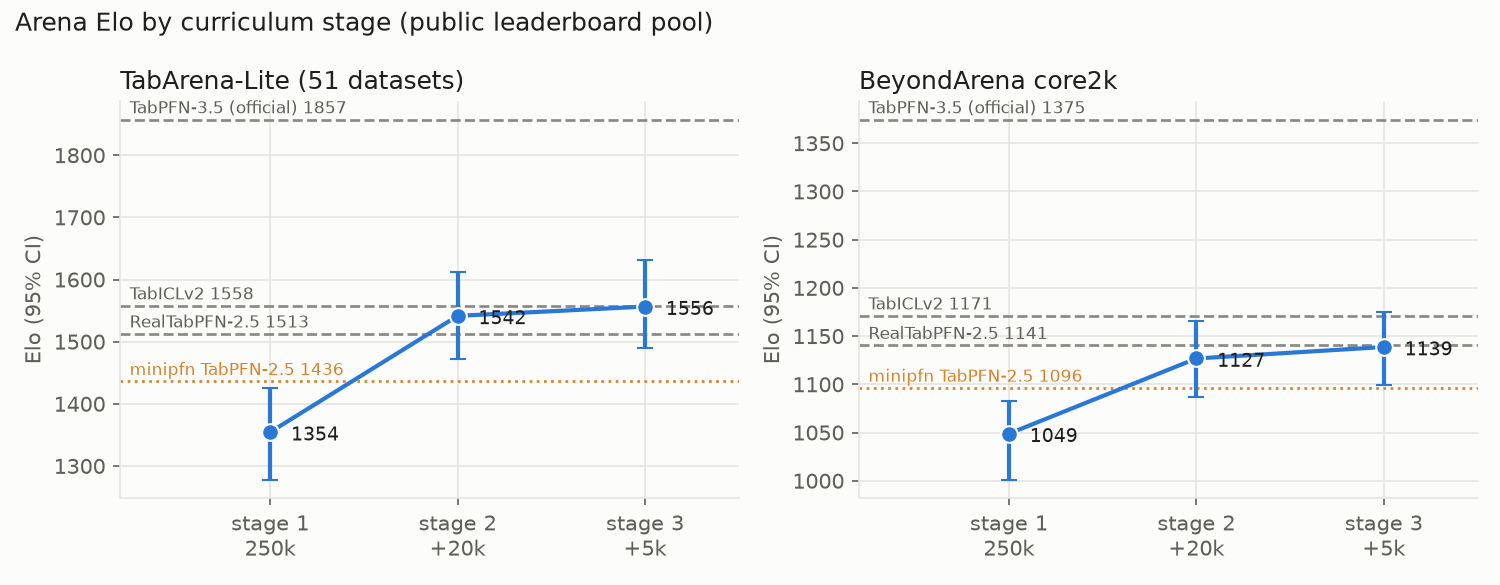
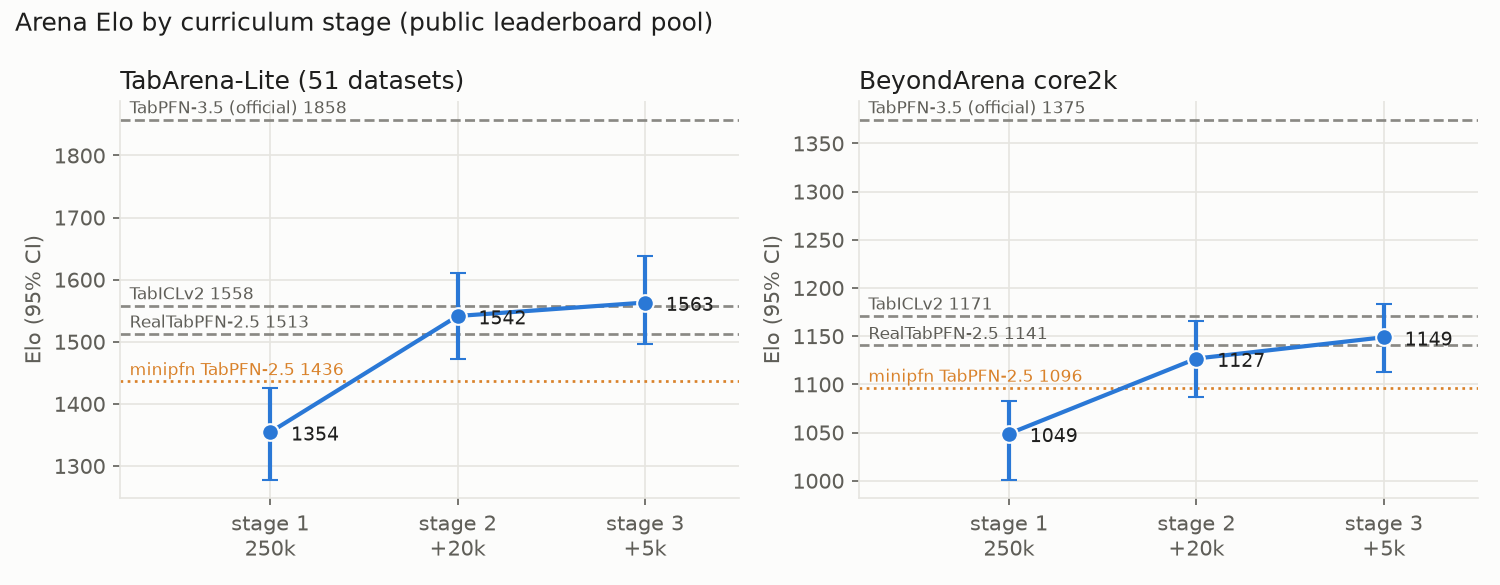
hub: TabPFN-3.5 card numbers under the 768-column default inference (#109) (#111)
- AMLB: re-run with Hub main weights and the current default (768 per
  member, balanced). No AMLB dataset has more than 376 columns, so the cap
  never applies; all 570 folds match the old result bit for bit. Numbers
  unchanged; the card now says so.
- TabArena-Lite 1556 -> 1563 (rank 16 -> 15 of 99), BeyondArena 1139 ->
  1149 (rank 20 -> 18 of 41), from the #99 runs. Stage 1-2 arena values
  are still the all-column ones; the card says they were not re-run.
- arena_elo.png redrawn with the stage-3 point at 768.
- plot_card.py: --tabarena-runs / --beyondarena-runs also take a
  leaderboard CSV path (for the recomputed BeyondArena leaderboard).

Closes #109

Changed region(s): [[0.7973, 0.5538, 0.9813, 0.6154], [0.3067, 0.4923, 0.4907, 0.5538]]

diff --git a/scripts/tabpfn_v3/plot_card.py b/scripts/tabpfn_v3/plot_card.py
@@ -80,8 +80,16 @@ def parse_args(argv: list[str] | None = None) -> argparse.Namespace:
         help="stage=학습 run_id, 쉼표로 구분 (단계 안에서는 순서대로)",
     )
     parser.add_argument("--benchmark-runs", required=True, help="stage=benchmark 평가 run_id")
-    parser.add_argument("--tabarena-runs", required=True, help="stage=TabArena-Lite 평가 run_id")
-    parser.add_argument("--beyondarena-runs", required=True, help="stage=BeyondArena 평가 run_id")
+    parser.add_argument(
+        "--tabarena-runs",
+        required=True,
+        help="stage=TabArena-Lite 평가 run_id (또는 leaderboard CSV 경로)",
+    )
+    parser.add_argument(
+        "--beyondarena-runs",
+        required=True,
+        help="stage=BeyondArena 평가 run_id (또는 leaderboard CSV 경로)",
+    )
     parser.add_argument(
         "--v2-5-benchmark-runs",
         required=True,
@@ -246,6 +254,10 @@ def plot_by_stage(bench: dict, v25: dict, path: Path) -> None:
 
 
 def load_leaderboard(run_id: str, suite: str, cache: Path) -> pd.DataFrame:
+    """평가 run의 `eval/<suite>/leaderboard.csv`. run_id 대신 leaderboard CSV 경로를 주면 그
+    파일을 읽는다(평가 run 없이 split 일부만 바꿔 다시 집계한 leaderboard, 예: issue #109)."""
+    if run_id.endswith(".csv"):
+        return pd.read_csv(run_id)
     csv = mlflow.artifacts.download_artifacts(
         run_id=run_id, artifact_path=f"eval/{suite}/leaderboard.csv", dst_path=str(cache / run_id)
     )

diff --git a/hub/minipfn-tabpfn-v3-5/README.md b/hub/minipfn-tabpfn-v3-5/README.md
@@ -77,42 +77,44 @@ Regression: the median RMSE ratio is 0.999, and 25 of 28 datasets are within 1.1
 
 Most of the regression gain came from stage 2, the first stage with long tables: the ratio fell from 1.075 to 1.005, and 20 of 28 datasets improved. Stage 3 changed little on this suite.
 
+The column cap of the default inference (768 per member) never applies on this suite: the widest dataset, Mercedes_Benz_Greener_Manufacturing, has 376 columns. Re-run with the current default inference, the stage-3 weights gave the same score on all 570 folds, so the numbers above hold for every stage.
+
 ![ROC AUC per dataset](images/benchmark_roc_auc.png)
 
 ![RMSE ratio per dataset](images/benchmark_rmse_ratio.png)
 
 ### TabArena-Lite
 
-[TabArena-Lite](https://huggingface.co/spaces/TabArena/leaderboard) (51 datasets, one split each), scored the way the public leaderboard is: Elo against the leaderboard's method pool, with RandomForest (default) at 1000. The same weights serve the classification and regression splits. No split exceeds the size limit (1,000,000 training rows, 6,000 features, 160 classes), so none is imputed. Every method on the public leaderboard is 8-fold bagged; this model is fit once per split.
+[TabArena-Lite](https://huggingface.co/spaces/TabArena/leaderboard) (51 datasets, one split each), scored the way the public leaderboard is: Elo against the leaderboard's method pool, with RandomForest (default) at 1000. The same weights serve the classification and regression splits, with the default inference (768 columns per member, balanced). No split exceeds the size limit (1,000,000 training rows, 160 classes; the column cap removes the column limit), so none is imputed. Every method on the public leaderboard is 8-fold bagged; this model is fit once per split.
 
 | Method | Elo | Imputed splits |
 | --- | --- | --- |
-| TabPFN-3.5 (default), public | 1857 | |
-| TabPFN-3 (default), public | 1620 | |
+| TabPFN-3.5 (default), public | 1858 | |
+| TabPFN-3 (default), public | 1621 | |
+| **minipfn TabPFN-3.5 (this model)** | **1563** (+75/−67) | 0.0% |
 | TabICLv2 (default), public | 1558 | |
-| **minipfn TabPFN-3.5 (this model)** | **1556** (+75/−67) | 0.0% |
 | RealTabPFN-2.5 (default), public | 1513 | |
 | minipfn TabPFN-2.5 | 1436 | 7.8% |
 
-By stage, the Elo was 1354 (+72/−77) after stage 1, 1542 (+70/−70) after stage 2 and 1556 after stage 3. This model places 16th of 99 methods. By problem type its Elo is 1568 (binary), 1635 (multiclass) and 1663 (regression), and it beats XGBoost (default) on 90% of the splits. The official TabPFN-3.5 is still about 300 Elo higher.
+By stage, the Elo was 1354 (+72/−77) after stage 1, 1542 (+70/−70) after stage 2 and 1563 after stage 3. The stage-1 and stage-2 values were measured before the column cap became the default (every column in every member) and were not re-run; with all columns, stage 3 scored 1556. Only 3 of the 51 datasets have more than 768 columns, so the cap changes little here, and the difference is inside the confidence interval. This model places 15th of 99 methods. By problem type its Elo is 1587 (binary), 1601 (multiclass) and 1663 (regression), and it beats XGBoost (default) on 90% of the splits. The official TabPFN-3.5 is still about 300 Elo higher.
 
 ![Arena Elo by stage](images/arena_elo.png)
 
 ### BeyondArena
 
-BeyondArena core2k (2,000 splits from 142 datasets), scored like its public leaderboard with XGBoost (default) at 1000. 1,999 splits run. The one above the size limit (amex_non_iid_1m, more than 1,000,000 training rows) takes RandomForest (default)'s result. On tables with more than 6,000 features, each ensemble member uses a random subset of 6,000 features (like the official `max_features_per_estimator`).
+BeyondArena core2k (2,000 splits from 142 datasets), scored like its public leaderboard with XGBoost (default) at 1000. 1,999 splits run. The one above the size limit (amex_non_iid_1m, more than 1,000,000 training rows) takes RandomForest (default)'s result. On tables with more than 768 columns, each ensemble member gets 768 of them, split so that every column is used about equally often (the default inference, like the official 3.5's `max_features_per_estimator`). Only the 10 datasets with more than 768 columns were re-run with this setting; the other splits give the same result as with all columns, so their results were kept and the Elo was recomputed with the same `tabarena` aggregation.
 
 | Method | Elo |
 | --- | --- |
 | TabPFN-3.5 (default), public | 1375 |
 | TabPFN-3 (default), public | 1232 |
 | TabICLv2 (default), public | 1171 |
+| **minipfn TabPFN-3.5 (this model)** | **1149** (+35/−36) |
 | RealTabPFN-2.5 (default), public | 1141 |
-| **minipfn TabPFN-3.5 (this model)** | **1139** (+36/−39) |
 | minipfn TabPFN-2.5 | 1096 |
 | XGBoost (default), public | 1000 |
 
-By stage, the Elo was 1049 → 1127 → 1139. This model places 20th of 41 methods. It is strongest on tiny tables (Elo 1317), low-dimensional tables (1276), random splits (1258) and small tables (1237). It is weakest on large tables (676), high-cardinality categorical features (738), temporal splits (740), text features (874) and high-dimensional tables (909).
+By stage, the Elo was 1049 → 1127 → 1149. The stage-1 and stage-2 values were measured before the 768-column cap became the default (each member took a random 6,000 of the columns on wider tables) and were not re-run; with that setting, stage 3 scored 1139. The cap helps most on wide tables: the error on the 10 datasets with more than 768 columns fell to 0.71× (geometric mean), and the high-dimensional group rose from 909 to 939. The overall gain (+10) is inside the confidence interval. This model places 18th of 41 methods. It is strongest on tiny tables (Elo 1344), low-dimensional tables (1276), random splits (1275) and small tables (1242). It is weakest on large tables (676), high-cardinality categorical features (738), temporal splits (740), text features (874) and high-dimensional tables (939).
 
 ## Limitations
 
@@ -158,7 +160,7 @@ uv run python scripts/tabpfn_v2/eval.py --suite all \
   --regressor-path hf://aiden-jeon/minipfn-tabpfn-v3-5
 ```
 
-For BeyondArena, add `--max-features-per-member 6000`.
+The column cap (768 per member, balanced) comes with the model; pass `--max-features-per-member N` and `--feature-subsampling random|balanced` to change it.
 
 ## Intermediate checkpoints
 
@@ -168,7 +170,9 @@ The weights at the end of stages 1 and 2 are kept as branches of this repo. Each
 | --- | --- | --- | --- | --- | --- |
 | `stage1-250k` | `sha256:2ddf63bce395` | 0.9358 | 1.075 | 1354 | 1049 |
 | `stage2-20k` | `sha256:4e7bc2d7a6ed` | 0.9370 | 1.005 | 1542 | 1127 |
-| `main` (stage 3, +5k) | `sha256:01238841bddc` | 0.9371 | 1.005 | 1556 | 1139 |
+| `main` (stage 3, +5k) | `sha256:01238841bddc` | 0.9371 | 1.005 | 1563 | 1149 |
+
+The arena Elo of `stage1-250k` and `stage2-20k` was measured with every column in every member (6,000 at most on BeyondArena), before the 768-column cap became the default; with that setting, `main` scored 1556 and 1139. The AMLB columns do not depend on the cap.
 
 ```python
 clf = TabPFNv3_5Classifier("aiden-jeon/minipfn-tabpfn-v3-5@stage2-20k")
